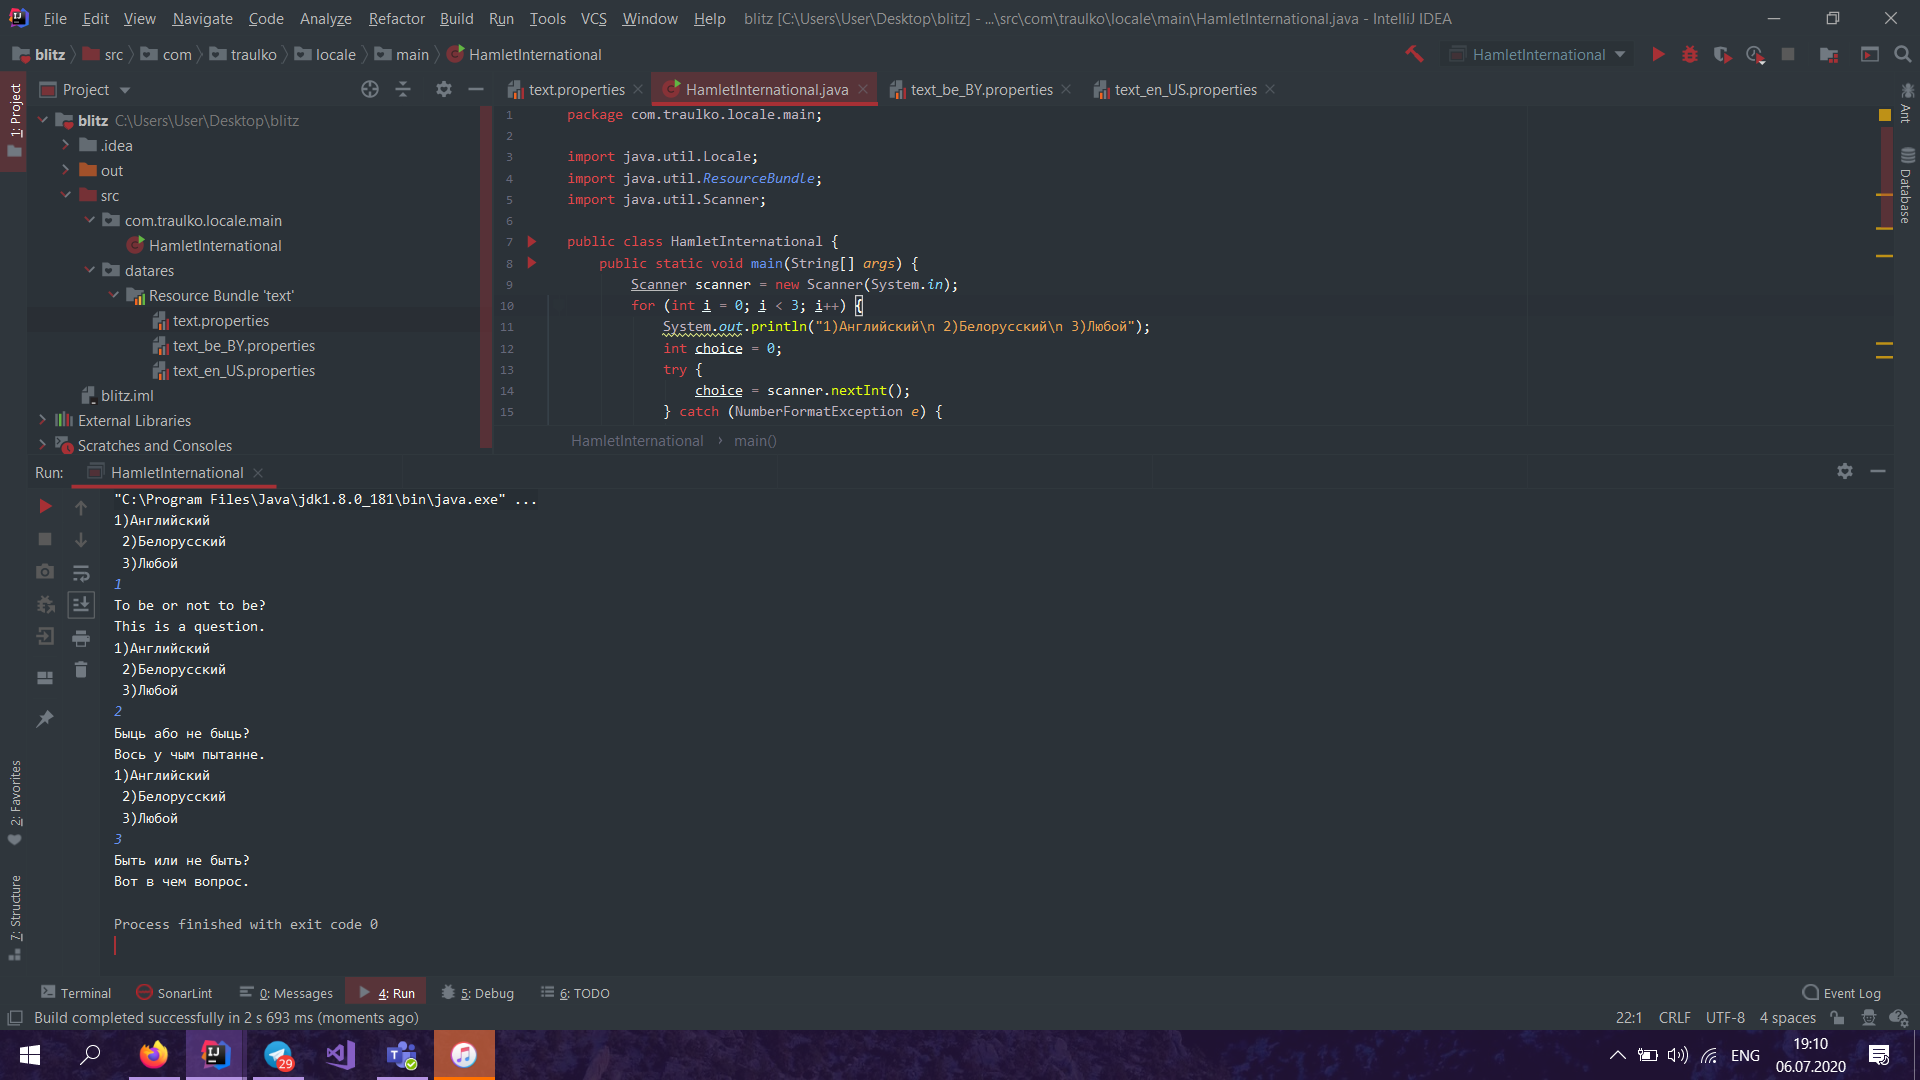
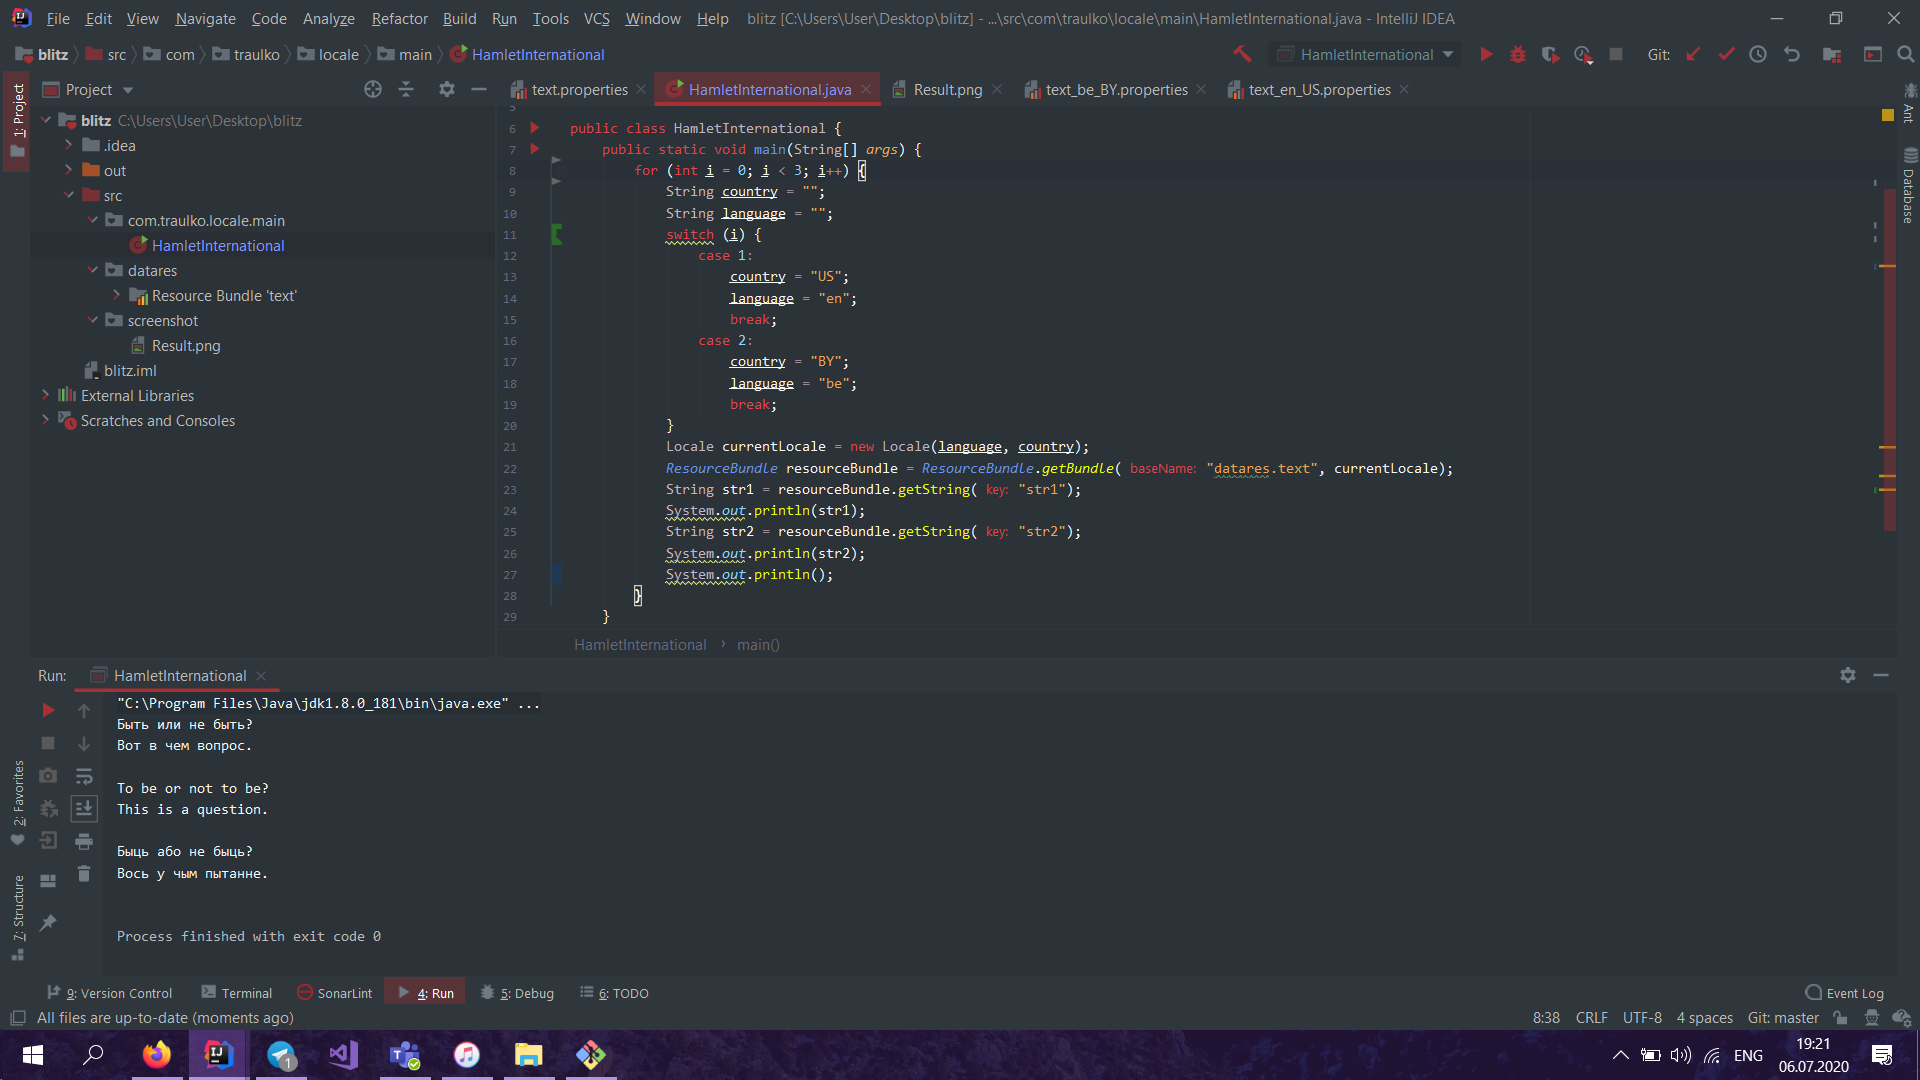
Second commit

diff --git a/src/com/traulko/locale/main/HamletInternational.java b/src/com/traulko/locale/main/HamletInternational.java
@@ -2,22 +2,13 @@ package com.traulko.locale.main;
 
 import java.util.Locale;
 import java.util.ResourceBundle;
-import java.util.Scanner;
 
 public class HamletInternational {
     public static void main(String[] args) {
-        Scanner scanner = new Scanner(System.in);
         for (int i = 0; i < 3; i++) {
-            System.out.println("1)Английский\n 2)Белорусский\n 3)Любой");
-            int choice = 0;
-            try {
-                choice = scanner.nextInt();
-            } catch (NumberFormatException e) {
-                e.printStackTrace();
-            }
             String country = "";
             String language = "";
-            switch (choice) {
+            switch (i) {
                 case 1:
                     country = "US";
                     language = "en";
@@ -33,6 +24,7 @@ public class HamletInternational {
             System.out.println(str1);
             String str2 = resourceBundle.getString("str2");
             System.out.println(str2);
+            System.out.println();
         }
     }
 }
